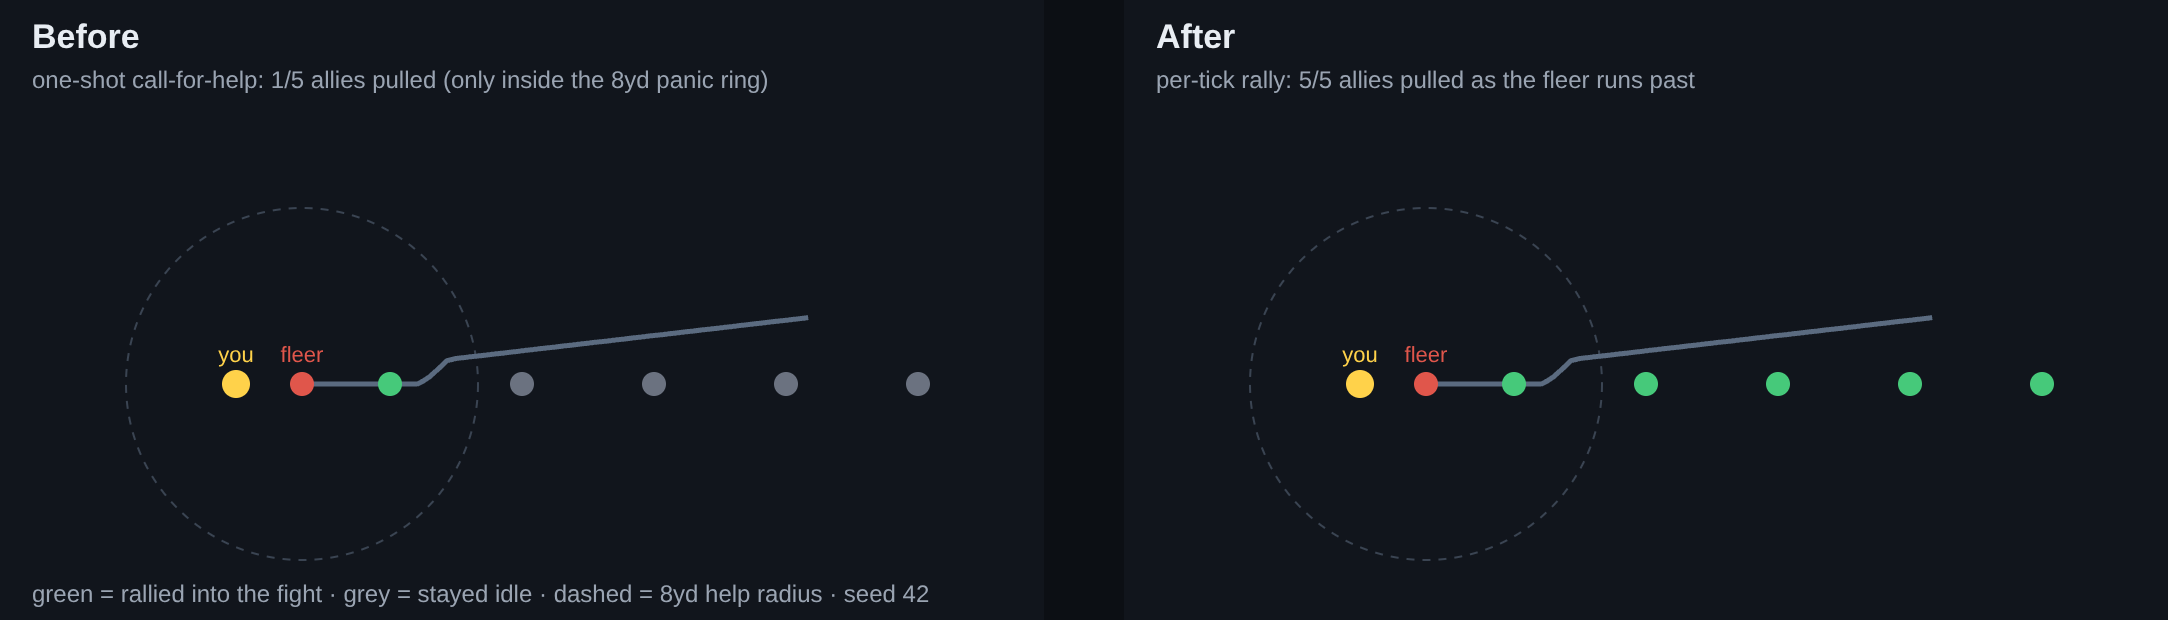
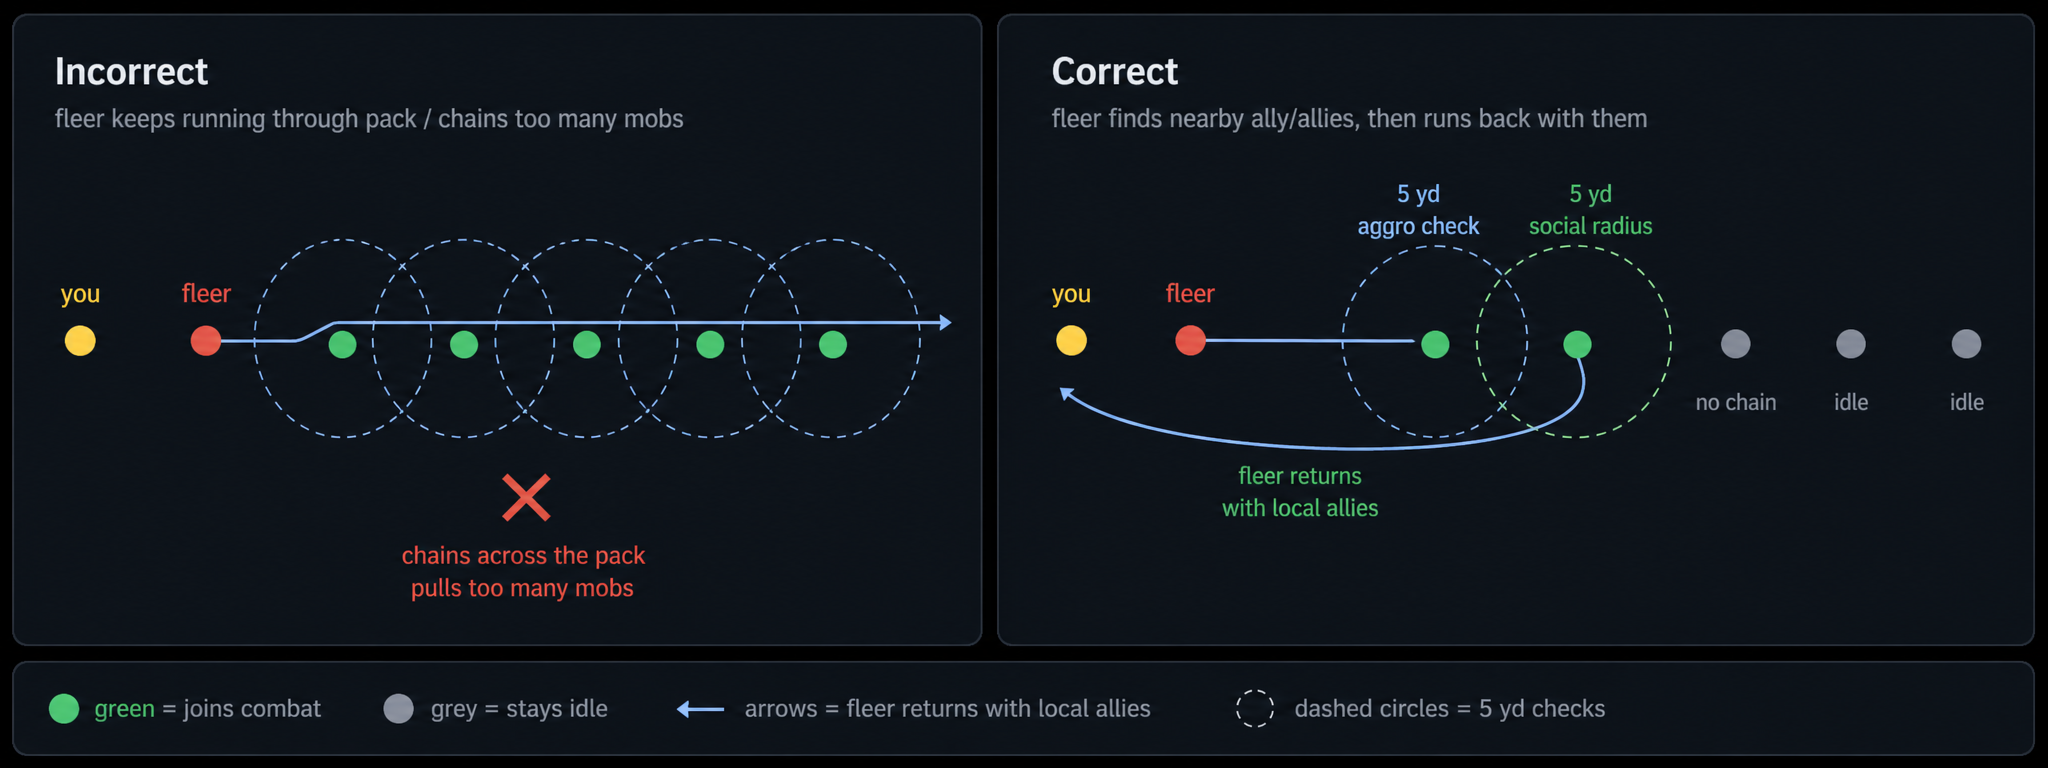
fix(sim): rally only local allies once, not the whole camp, when fleeing
Reverses the per-tick rally added earlier on this branch. That version dragged in
every same-family ally a fleer ran PAST, so one cowardly mob threading a tight camp
cascaded the pull across the whole pack: the "incorrect" panel in the design diagram.

The correct behavior is a tight, local, one-shot rally. At the panic moment maybeFlee
calls rallyFleeingAllies once, pulling only idle same-family allies within a small 5yd
help radius (was 8); as the fleer then sprints away it does NOT re-scan, so allies down
the escape lane stay idle. The remaining spread is just the normal same-family social
aggro the first rallied ally seeds, which is bounded and pre-existing.

- src/sim/mob/social_aggro.ts: FLEE_HELP_RADIUS 8 -> 5; rallyFleeingAllies is now a
  one-shot, local rally (comment updated).
- src/sim/mob/locomotion.ts: drop the per-tick ctx.rallyFleeingAllies call in the flee
  arm (the cause of the cascade).
- ctx.rallyFleeingAllies had no other caller, so it is removed from the SimContext seam
  (declaration + binding); maybeFlee calls the module directly.

Determinism: the rally mutates entity state and seeds threat only, drawing zero rng, so
the shared draw order is unchanged and the parity goldens need no regeneration.

Tests: tests/mob_flee.test.ts inverts the prior "runs PAST" case to assert a fleer does
NOT chain an ally 12yd down the lane. tests/social_aggro.test.ts adds a local-cluster
[…]

diff --git a/tests/social_aggro.test.ts b/tests/social_aggro.test.ts
@@ -1,8 +1,9 @@
-// mob/social_aggro.ts: a fleeing mob rallies idle same-family allies it runs past.
-// Driven through a real Sim so the spatial grid, MOBS table, and threat seeding are
-// the live ones; the module is also exercised directly for its return count.
+// mob/social_aggro.ts: at the panic moment a fleeing mob rallies only its LOCAL idle
+// same-family allies (within FLEE_HELP_RADIUS), once. Driven through a real Sim so the
+// spatial grid, MOBS table, and threat seeding are the live ones; the module is also
+// exercised directly for its return count.
 import { describe, expect, it } from 'vitest';
-import { rallyFleeingAllies } from '../src/sim/mob/social_aggro';
+import { FLEE_HELP_RADIUS, rallyFleeingAllies } from '../src/sim/mob/social_aggro';
 import { Sim } from '../src/sim/sim';
 import type { Entity } from '../src/sim/types';
 
@@ -48,7 +49,7 @@ describe('rallyFleeingAllies', () => {
     fleer.templateId = 'gravecaller_cultist';
     fleer.pos = { x: sim.player.pos.x + 3, z: sim.player.pos.z, y: sim.player.pos.y };
     const far = mobs[1];
-    placeAlly(far, fleer, 20); // outside 8yd
+    placeAlly(far, fleer, FLEE_HELP_RADIUS + 2); // just outside the local help radius
     const wrongFamily = mobs[2];
     placeAlly(wrongFamily, fleer, 2, 'mire_prowler'); // adjacent but beast family (no flee rally)
     const busy = mobs[3];
@@ -61,6 +62,29 @@ describe('rallyFleeingAllies', () => {
     expect(pulled).toBe(0);
     expect(far.aiState).toBe('idle');
     expect(wrongFamily.aiState).toBe('idle');
+  });
+
+  it('rallies a tight local cluster but leaves the rest of the pack idle (no chain)', () => {
+    const sim = makeSim();
+    const mobs = wildMobs(sim);
+    const fleer = mobs[0];
+    fleer.templateId = 'gravecaller_cultist';
+    fleer.pos = { x: sim.player.pos.x + 3, z: sim.player.pos.z, y: sim.player.pos.y };
+    const local = mobs[1];
+    placeAlly(local, fleer, FLEE_HELP_RADIUS - 1); // inside: joins
+    const downLane = mobs[2];
+    placeAlly(downLane, fleer, FLEE_HELP_RADIUS + 4); // beyond: stays idle, no chain
+
+    (sim as any).grid.refresh(sim.entities.values());
+    const pulled = rallyFleeingAllies((sim as any).ctx, fleer, sim.player);
+
+    expect(pulled).toBe(1);
+    expect(local.aiState).toBe('chase');
+    expect(downLane.aiState).toBe('idle');
+  });
+
+  it('uses a small, local help radius (5yd)', () => {
+    expect(FLEE_HELP_RADIUS).toBe(5);
   });
 
   it('is deterministic: same setup pulls the same allies', () => {

diff --git a/tests/mob_flee.test.ts b/tests/mob_flee.test.ts
@@ -1,7 +1,8 @@
 // Cowardly mobs (sentient families: humanoid/kobold/murloc/troll) panic at low HP
 // instead of fighting to the death: they turn and run from their attacker for a few
-// seconds, rallying same-family allies they run past (including ones down the escape
-// lane, not just at the panic spot), then recover their nerve. They flee only ONCE
+// seconds. At the panic moment they rally only their LOCAL idle same-family allies
+// (within FLEE_HELP_RADIUS), once: allies further down the escape lane are NOT chained
+// in as the fleer runs past them. Then they recover their nerve. They flee only ONCE
 // per pull, and elites/bosses/beasts never flee.
 import { describe, expect, it } from 'vitest';
 import { Sim } from '../src/sim/sim';
@@ -151,7 +152,7 @@ describe('cowardly mobs flee at low HP', () => {
     // the flee rally can pull the ally. The fleer runs the opposite way (+x).
     sim.player.pos = { x: fleer.pos.x - 200, z: fleer.pos.z, y: fleer.pos.y };
     sim.player.prevPos = { ...sim.player.pos };
-    // an idle same-family ally standing right next to the fleer (within the 8yd help radius)
+    // an idle same-family ally standing right next to the fleer (within the 5yd help radius)
     ally.templateId = 'gravecaller_cultist';
     ally.hostile = true;
     ally.dead = false;
@@ -170,7 +171,7 @@ describe('cowardly mobs flee at low HP', () => {
     expect(sim.entities.get(ally.id)!.aiState).toBe('chase');
   });
 
-  it('rallies an idle same-family ally it runs PAST while fleeing (not just at the panic spot)', () => {
+  it('does NOT chain an ally it runs PAST: only local allies rally, once at the panic spot', () => {
     const sim = makeSim();
     const mobs = wildMobs(sim);
     const fleer = mobs[0];
@@ -180,9 +181,9 @@ describe('cowardly mobs flee at low HP', () => {
     // Isolates the rally from idle proximity aggro (which reaches at most 20yd).
     sim.player.pos = { x: fleer.pos.x - 200, z: fleer.pos.z, y: fleer.pos.y };
     sim.player.prevPos = { ...sim.player.pos };
-    // Stand an idle ally 12yd down that escape lane: OUT of the 8yd help radius at the
-    // panic spot, so a one-shot call-for-help can never reach it. Only a per-tick rally
-    // while the mob runs past it can pull it in.
+    // Stand an idle ally 12yd down that escape lane: OUT of the 5yd help radius at the
+    // panic spot. The rally is one-shot and local, so the fleer running PAST this ally
+    // must NOT chain it in. It stays idle for the whole flee (no cascading pull).
     ally.templateId = 'gravecaller_cultist';
     ally.hostile = true;
     ally.dead = false;
@@ -192,15 +193,13 @@ describe('cowardly mobs flee at low HP', () => {
     ally.prevPos = { ...ally.pos };
     ally.spawnPos = { ...ally.pos };
 
-    sim.tick();
-    // Not pulled yet: the ally was outside the help radius when the fleer panicked.
+    // Run the whole flee window: the fleer sprints right past the ally.
+    for (let i = 0; i < 40; i++) sim.tick();
+
+    // Never chained: it was outside the local help radius at the panic spot, and there
+    // is no per-tick re-scan to catch it as the fleer passes.
     expect(sim.entities.get(ally.id)!.aiState).toBe('idle');
-
-    // Let the fleer sprint down the lane and pass the ally.
-    for (let i = 0; i < 20 && sim.entities.get(ally.id)!.aiState === 'idle'; i++) sim.tick();
-
-    expect(sim.entities.get(ally.id)!.aggroTargetId).toBe(sim.playerId);
-    expect(sim.entities.get(ally.id)!.aiState).toBe('chase');
+    expect(sim.entities.get(ally.id)!.aggroTargetId).toBe(null);
   });
 
   it('recovers its nerve after the flee window and re-engages', () => {

diff --git a/src/sim/mob/social_aggro.ts b/src/sim/mob/social_aggro.ts
@@ -1,25 +1,25 @@
-// Social aggro for fleeing mobs. A cowardly mob that panics at low HP and runs does
-// not just shout once at the spot it broke: as it sprints away it rallies idle
-// same-family allies it RUNS PAST into the fight. Camped wild mobs are clustered, so
-// a fleer threading through its camp drags its neighbours in, the same way an initial
-// pull seeds same-family social aggro in aggroMob.
+// Social aggro for fleeing mobs. A cowardly mob that panics at low HP calls only its
+// LOCAL same-family neighbours into the fight, once, at the moment it breaks: it does
+// NOT keep chaining allies across the camp as it sprints past them. Pulling every mob
+// the fleer runs beside cascaded a single pull into a whole-camp wipe; a tight, local,
+// one-shot rally keeps the panic to the immediate cluster (the same way an initial pull
+// seeds same-family social aggro in aggroMob), while the rest of the pack stays idle.
 //
 // Pure entity-state mutation: it sets aiState/aggroTargetId/leashAnchor and seeds the
-// hate table, and draws NO rng. That is what makes it safe to call every tick of the
-// flee state (and at the panic moment) without shifting the shared draw order, so the
+// hate table, and draws NO rng. That keeps the shared draw order unchanged, so the
 // parity goldens are unaffected.
 import { MOBS } from '../data';
 import type { SimContext } from '../sim_context';
 import { addThreat } from '../threat';
 import type { Entity } from '../types';
 
-// A fleeing mob rallies same-family allies within this radius as it passes them.
-export const FLEE_HELP_RADIUS = 8;
+// A fleeing mob rallies same-family allies within this (small, local) radius, once at
+// the panic spot. Kept tight so a fleer cannot chain in the whole camp.
+export const FLEE_HELP_RADIUS = 5;
 
 // Pull every idle, same-family ally currently within FLEE_HELP_RADIUS of the fleeing
-// mob onto its attacker. Idempotent: allies already engaged are skipped, so calling it
-// each tick of the flee just catches the ones the mob has newly run up beside. Returns
-// the number of allies newly pulled (handy for tests).
+// mob onto its attacker. Called once, at the panic moment. Returns the number of allies
+// newly pulled (handy for tests).
 export function rallyFleeingAllies(ctx: SimContext, mob: Entity, target: Entity): number {
   const family = MOBS[mob.templateId]?.family;
   if (!family) return 0;

diff --git a/src/sim/sim.ts b/src/sim/sim.ts
@@ -2022,7 +2022,6 @@ export class Sim {
       updateProfiledMobCombat: sim.updateProfiledMobCombat.bind(sim),
       tryMobMeleeSwingInRange: sim.tryMobMeleeSwingInRange.bind(sim),
       maybeFlee: sim.maybeFlee.bind(sim),
-      rallyFleeingAllies: sim.rallyFleeingAllies.bind(sim),
       aggroMob: sim.aggroMob.bind(sim),
       // C3 moved the CC predicates to combat/cc.ts; ctx.isStunned/isRooted (consumed by
       // mob/locomotion.ts, M2) now point at those pure functions instead of Sim methods.
@@ -3630,15 +3629,10 @@ export class Sim {
       color: '#ffd966',
       entityId: mob.id,
     });
-    this.rallyFleeingAllies(mob, target);
+    // Call only the local same-family allies once, here at the panic spot. The fleer
+    // does NOT chain in mobs it runs past while sprinting (mob/social_aggro.ts).
+    rallyFleeingAllies(this.ctx, mob, target);
     return true;
-  }
-
-  // Thin delegate: mob/social_aggro.ts owns the per-pass rally. maybeFlee calls it at
-  // the panic moment; mob/locomotion.ts calls ctx.rallyFleeingAllies every tick of the
-  // flee so allies the mob runs PAST (not just those by the panic spot) get pulled in.
-  private rallyFleeingAllies(mob: Entity, target: Entity): number {
-    return rallyFleeingAllies(this.ctx, mob, target);
   }
 
   mobSwing(mob: Entity, target: Entity): void {

diff --git a/src/sim/mob/locomotion.ts b/src/sim/mob/locomotion.ts
@@ -454,10 +454,9 @@ export function updateMob(ctx: SimContext, mob: Entity): void {
         mob.swingTimer = Math.min(mob.swingTimer, 0.4);
         break;
       }
-      // Rally idle same-family allies the mob is now beside: a fleer threading
-      // through its camp drags its neighbours in as it passes them, not just the
-      // ones it stood next to when it first panicked. Draws no rng (parity-safe).
-      ctx.rallyFleeingAllies(mob, target);
+      // No per-tick rally here: the local same-family allies were called once at the
+      // panic spot (maybeFlee -> rallyFleeingAllies). A fleer must NOT chain in every
+      // mob it runs past, or one pull cascades across the whole camp.
       // Run directly away from the attacker. A root pins it in place (it just
       // cowers facing away); a stun is already handled by the early return above.
       const away = angleTo(target.pos, mob.pos);

diff --git a/src/sim/sim_context.ts b/src/sim/sim_context.ts
@@ -360,8 +360,6 @@ export interface SimContextCallbacks {
   updateProfiledMobCombat(mob: Entity): void;
   tryMobMeleeSwingInRange(mob: Entity, target: Entity): boolean;
   maybeFlee(mob: Entity, target: Entity): boolean;
-  // mob/social_aggro.ts: rally idle same-family allies a fleeing mob runs past.
-  rallyFleeingAllies(mob: Entity, target: Entity): number;
   aggroMob(mob: Entity, target: Entity, social: boolean): void;
   isStunned(e: Entity): boolean;
   isRooted(e: Entity): boolean;
@@ -734,7 +732,6 @@ export function createSimContext(host: SimContextHost): SimContext {
     updateProfiledMobCombat: host.updateProfiledMobCombat,
     tryMobMeleeSwingInRange: host.tryMobMeleeSwingInRange,
     maybeFlee: host.maybeFlee,
-    rallyFleeingAllies: host.rallyFleeingAllies,
     aggroMob: host.aggroMob,
     isStunned: host.isStunned,
     isRooted: host.isRooted,

diff --git a/tests/sim_context.test.ts b/tests/sim_context.test.ts
@@ -112,7 +112,6 @@ const CALLBACK_KEYS = [
   'updateProfiledMobCombat',
   'tryMobMeleeSwingInRange',
   'maybeFlee',
-  'rallyFleeingAllies',
   'aggroMob',
   'isStunned',
   'isRooted',
@@ -333,7 +332,6 @@ function makeFakeHost() {
     updateProfiledMobCombat: vi.fn(),
     tryMobMeleeSwingInRange: vi.fn(() => false),
     maybeFlee: vi.fn(() => false),
-    rallyFleeingAllies: vi.fn(() => 0),
     aggroMob: vi.fn(),
     isStunned: vi.fn(() => false),
     isRooted: vi.fn(() => false),

diff --git a/tests/entity_roster.test.ts b/tests/entity_roster.test.ts
@@ -208,7 +208,6 @@ function makeCtx() {
     updateProfiledMobCombat: vi.fn(),
     tryMobMeleeSwingInRange: vi.fn(() => false),
     maybeFlee: vi.fn(() => false),
-    rallyFleeingAllies: vi.fn(() => 0),
     aggroMob: vi.fn(),
     isStunned: vi.fn(() => false),
     isRooted: vi.fn(() => false),